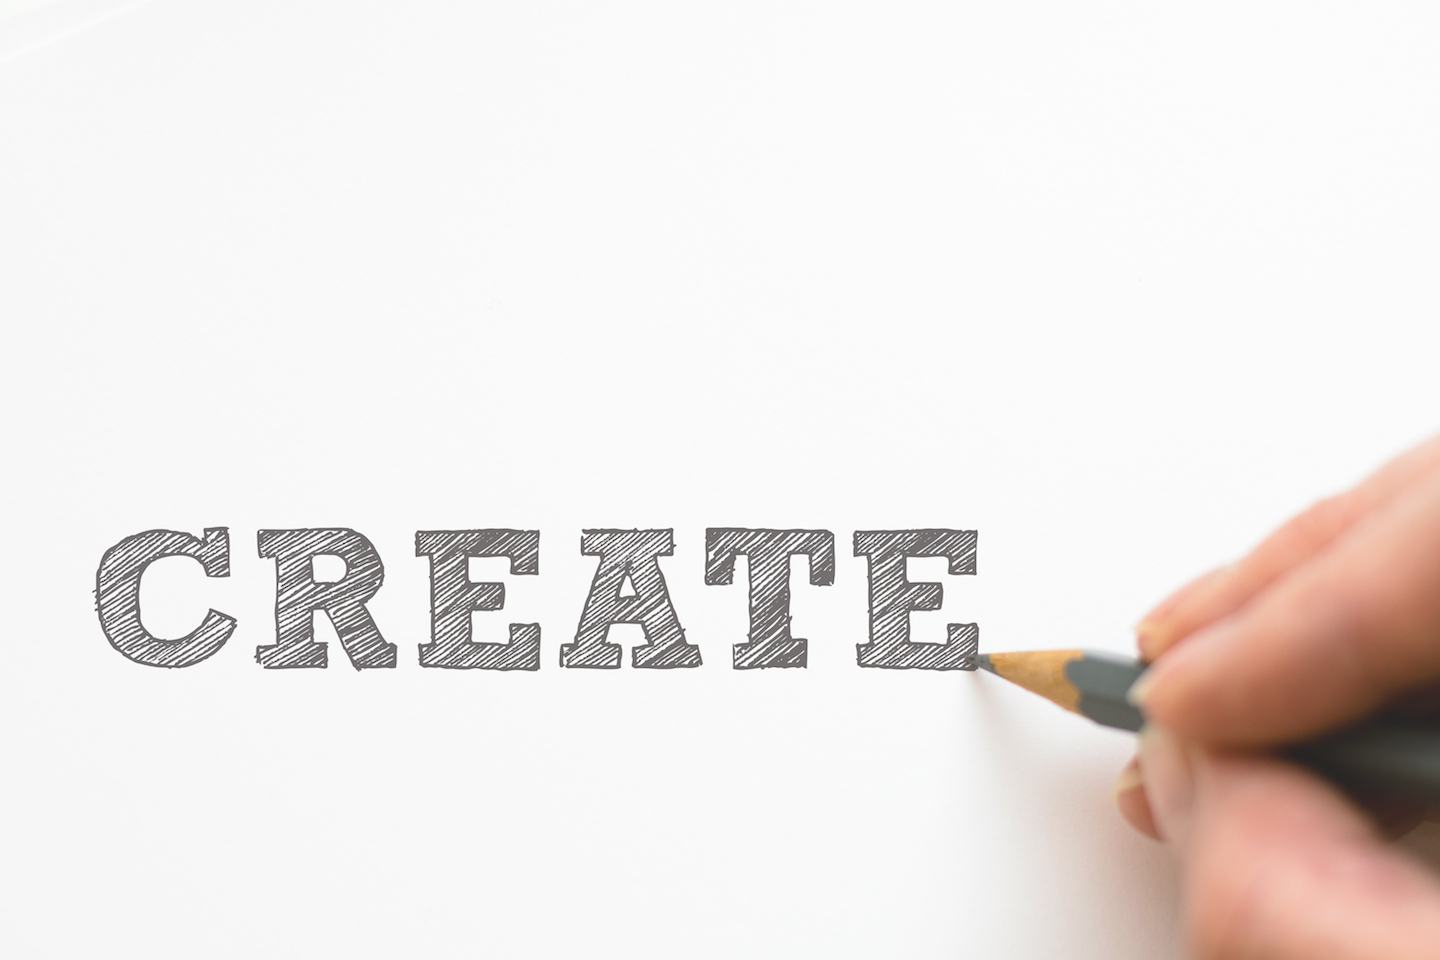
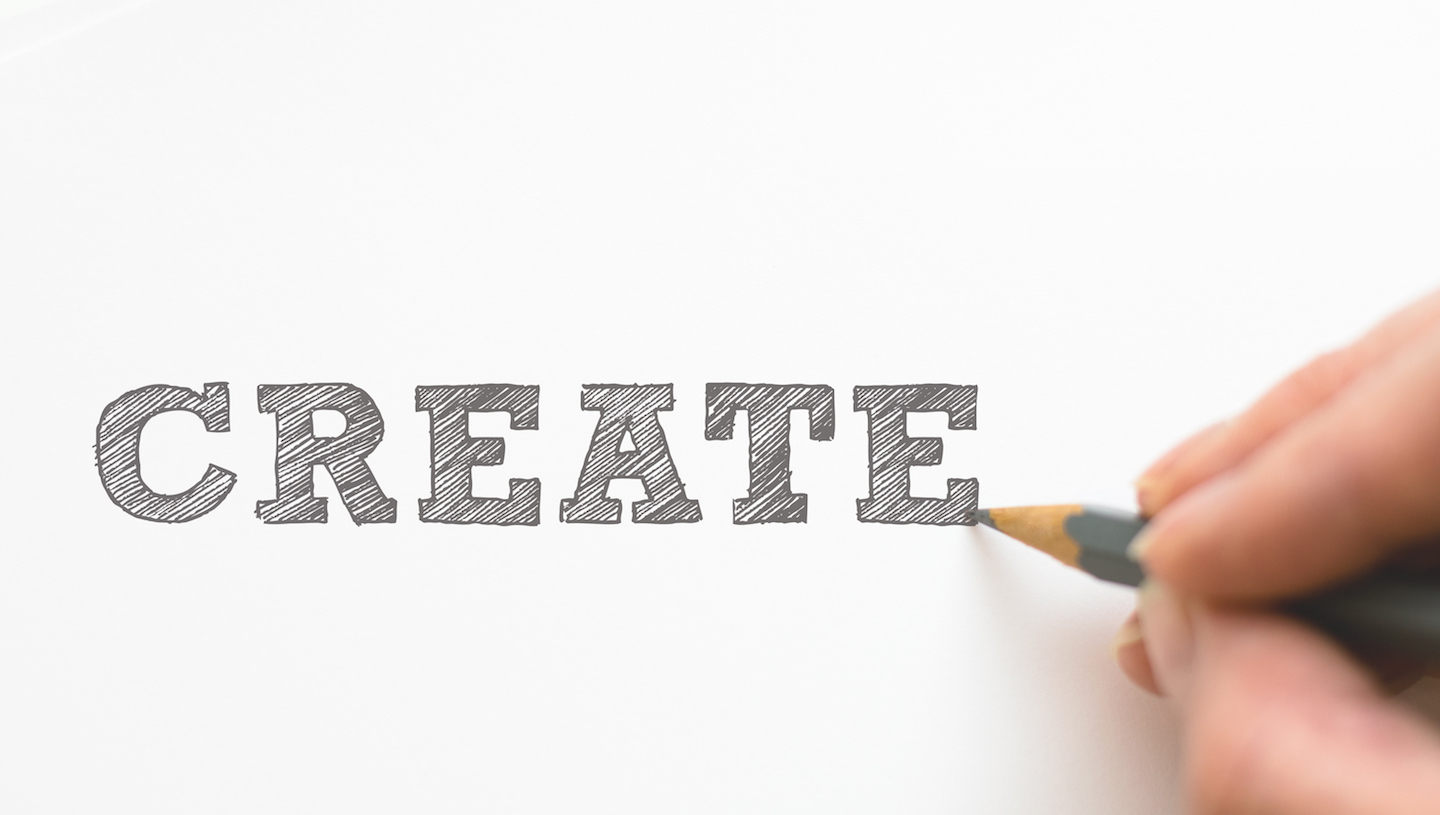
Finished Neon Labs Website Home Page

Changed region(s): [[0.0625, 0.3374, 1.0, 0.9202]]

diff --git a/index.html b/index.html
@@ -8,6 +8,7 @@
   <!-- VENDOR LINKS -->
   <link href="https://fonts.googleapis.com/css?family=Droid+Sans:400,700" rel="stylesheet">
   <script src="https://ajax.googleapis.com/ajax/libs/jquery/1.12.4/jquery.min.js"></script>
+  <script src="vendors/jquery/jquery.waypoints.min.js"></script>
 
   <!-- RESOURCE LINKS -->
   <script type='text/javascript' src='resources/js/animations.js'></script>
@@ -22,10 +23,10 @@
     <nav>
       <img alt='Neon Labs Logo' src='resources/media/img/general/main-logo.png'>
       <ul>
-        <a onclick='goToPage(this)' id='currentSectionNavLink'>Home</a>
-        <a onclick='goToPage(this)'>About</a>
-        <a  onclick='goToPage(this)'>Products</a>
-        <a onclick='goToPage(this)'>Projects</a>
+        <a class='navlink' onclick='goToPage(this)' id='currentSectionNavLink'>Home</a>
+        <a class='navlink' onclick='goToPage(this)'>About</a>
+        <a class='navlink' onclick='goToPage(this)'>Products</a>
+        <a class='navlink' onclick='goToPage(this)'>Projects</a>
       </ul>
     </nav>
   </header>
@@ -34,9 +35,7 @@
 
   <div class='main-section'>
     <section id='Home-section'>
-      <h1>We Are Neon Labs</h1>
-      <h2>Building A Better Tomorrow<br>With Groundbreaking New Technology Products</h2>
-      <h1></h1>
+      <img src='resources/media/img/quote.png' alt='main-photo'>
     </section>
     <section id='About-section'>
       <h1 class='section-title-header'>About Us</h1>

diff --git a/resources/css/main.css b/resources/css/main.css
@@ -20,7 +20,7 @@ nav {
   margin: 0px 10vw;
 }
 .main-section section {
-  height: 100vh;
+  height: 85vh;
 }
 nav img {
   height: 10vh;
@@ -63,6 +63,7 @@ nav ul a::selection {
 }
 #Home-section {
   background-image: url(../media/img/backgrounds/1.jpg);
+  text-align: center;
 }
 #About-section {
   background-image: url(../media/img/backgrounds/2.jpg);
@@ -75,4 +76,7 @@ nav ul a::selection {
 }
 section {
   background-size: 100vw auto;
+}
+#Home-section img {
+  height: 85vh;
 }
